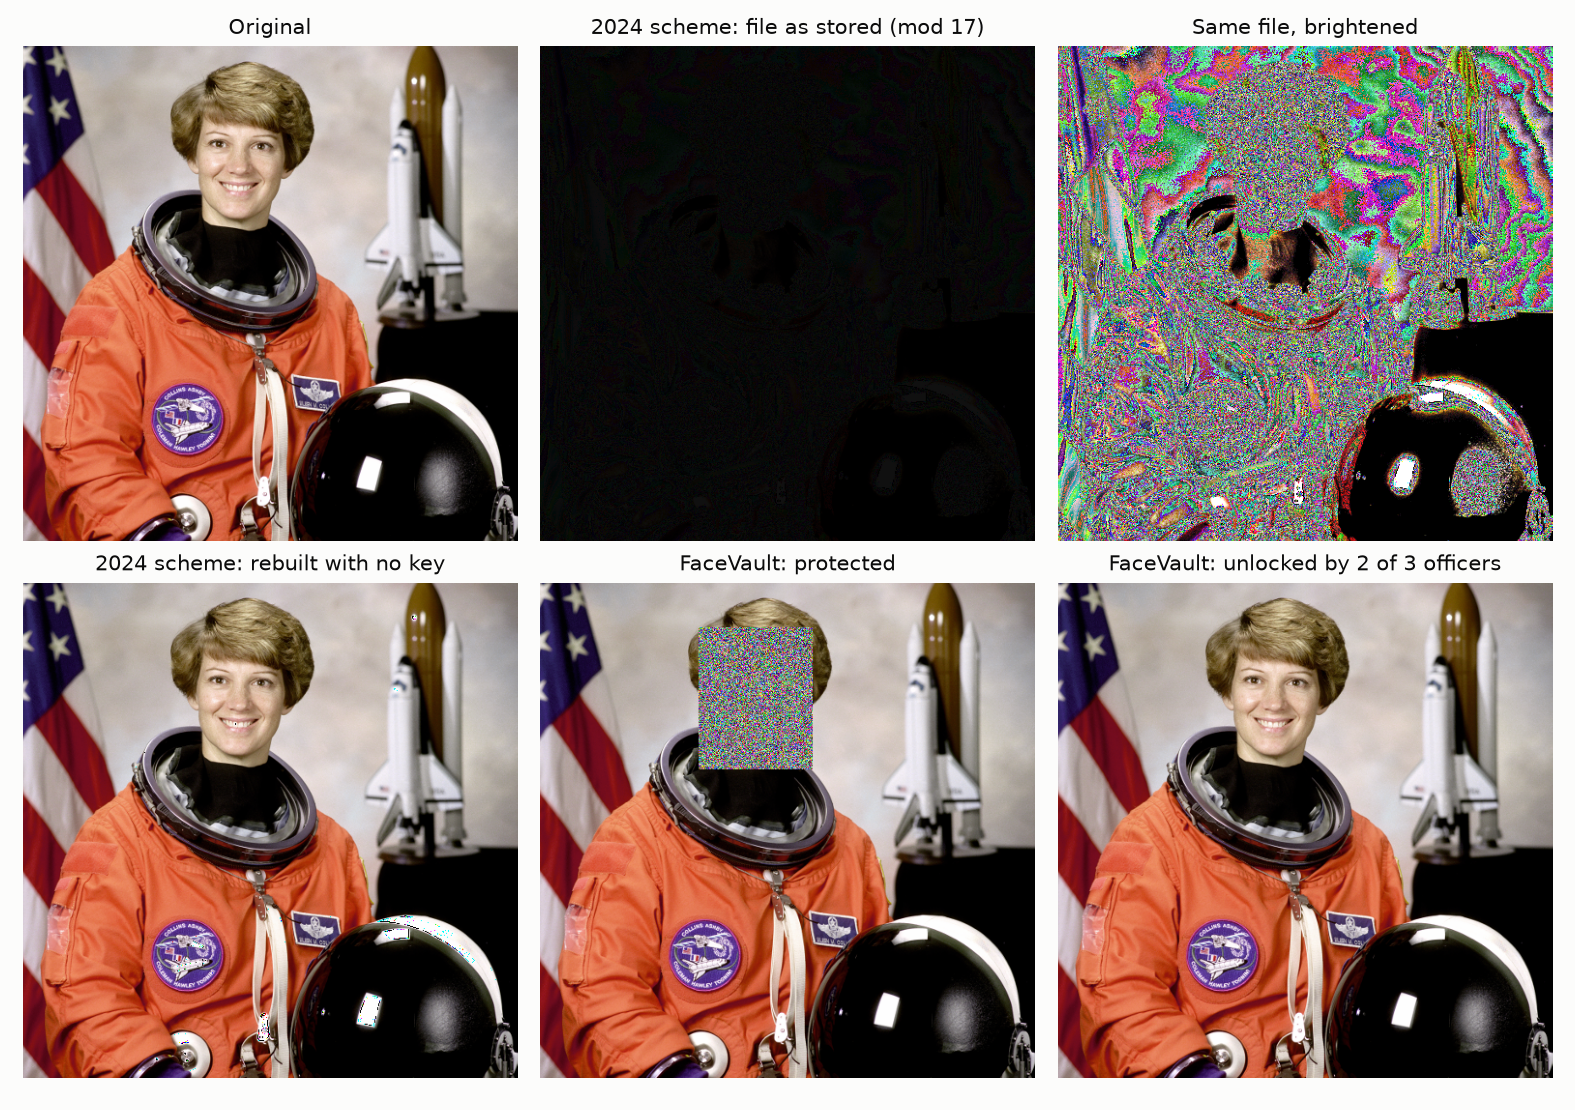
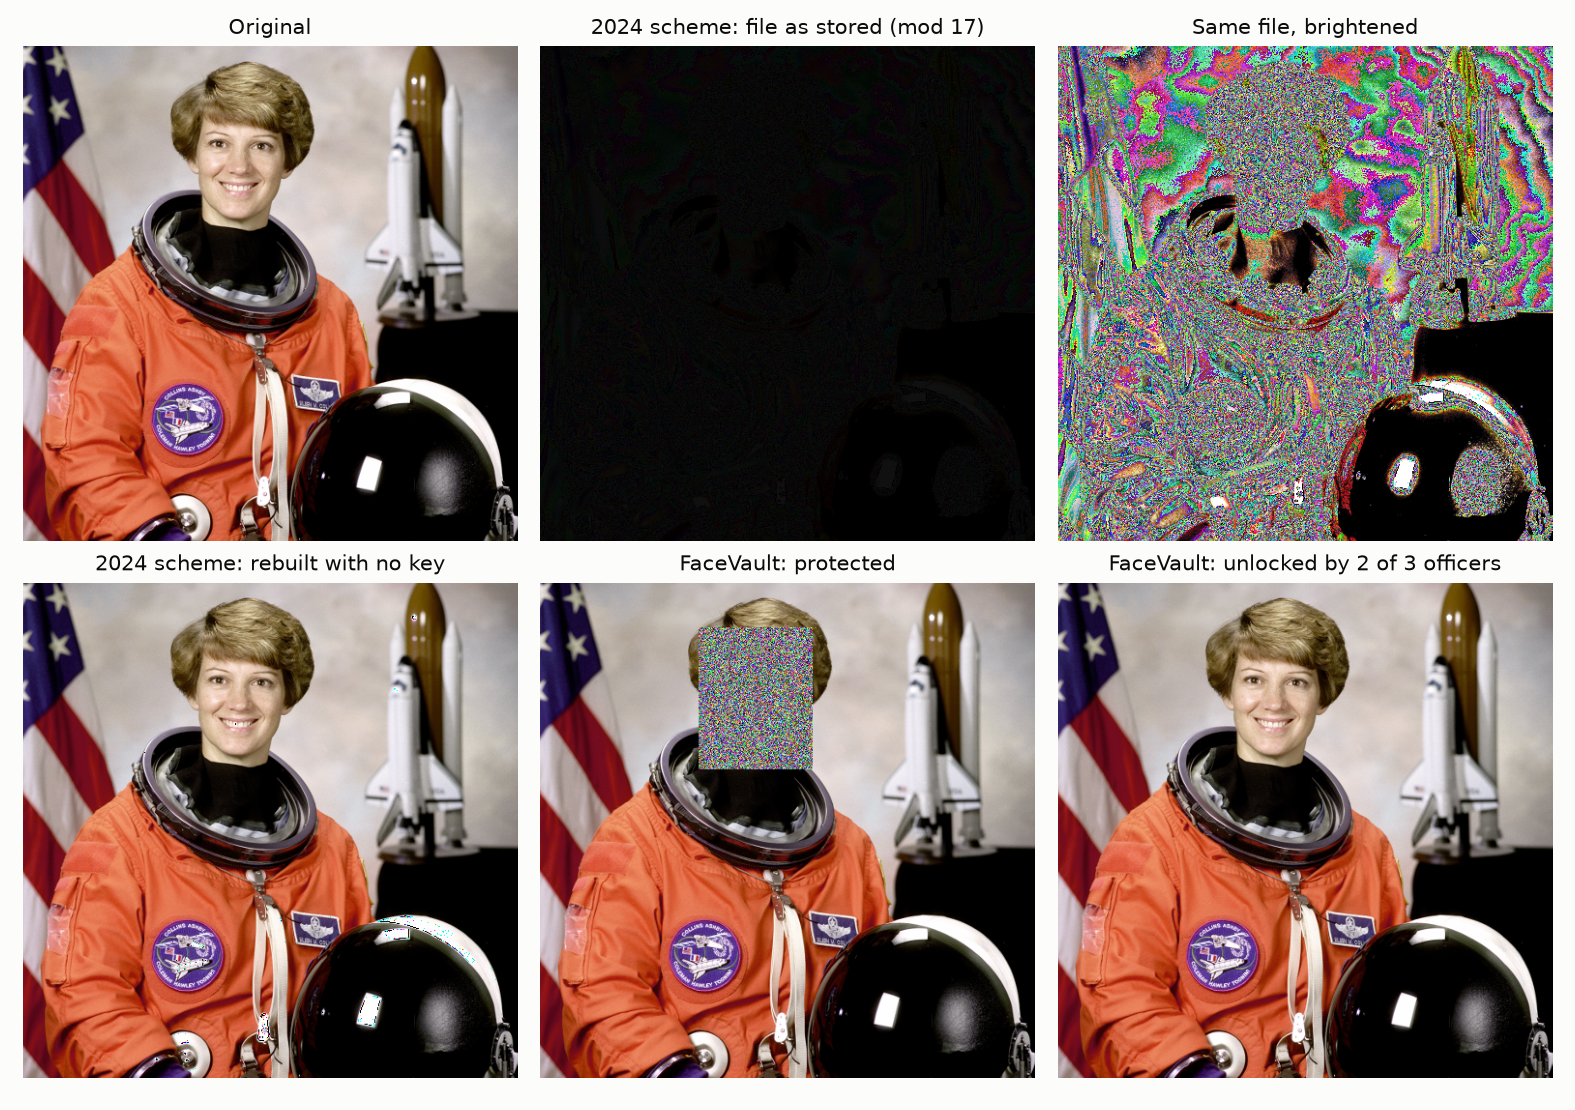
Compare FaceVault with blur, pixelation and a black box
New experiment step (run_all.py --only obfuscation): the same face
regions are hidden by each method and a recogniser is given a different
photo of the same person, with a wrong-person control for chance.
Light blur leaves 92.6% of faces recognisable and heavy blur 11.2%;
FaceVault leaves 0.0% and is the only method that can restore the face.
Adds facevault/obfuscate.py, the results table and figure, tests, and
a --only option to rerun selected steps.

Changed region(s): [[0.4356, 0.5514, 0.5289, 0.7045]]

diff --git a/experiments/run_all.py b/experiments/run_all.py
@@ -25,7 +25,7 @@ from cryptography.hazmat.primitives.ciphers.aead import AESGCM
 ROOT = Path(__file__).resolve().parent.parent
 sys.path.insert(0, str(ROOT))
 
-from facevault import attacks, detect, hybrid, legacy_rns, metrics, sharing, vault  # noqa: E402
+from facevault import attacks, detect, hybrid, legacy_rns, metrics, obfuscate, sharing, vault  # noqa: E402
 
 LFW_DIR = ROOT / "data" / "lfw_home" / "lfw_funneled"
 RESULTS = ROOT / "results"
@@ -270,6 +270,97 @@ def run_lock_threshold(paths, observer):
     return rows
 
 
+# --- 2c. blur, pixelation and a black box against FaceVault -----------------
+
+def obfuscation_methods(public):
+    """(label, function(image, boxes) -> image, can the original be recovered?)"""
+    return [
+        ("No protection", lambda image, boxes: image, None),
+        ("Gaussian blur, 15 px", lambda image, boxes: obfuscate.blur(image, boxes, 15), False),
+        ("Gaussian blur, 45 px", lambda image, boxes: obfuscate.blur(image, boxes, 45), False),
+        ("Pixelation, 8 px blocks", lambda image, boxes: obfuscate.pixelate(image, boxes, 8), False),
+        ("Pixelation, 16 px blocks", lambda image, boxes: obfuscate.pixelate(image, boxes, 16), False),
+        ("Black box", obfuscate.black_box, False),
+        ("FaceVault", lambda image, boxes: vault.protect(image, boxes, public, margin=0)[0], True),
+    ]
+
+
+def photo_pairs(all_paths, people, seed):
+    """(photo A, photo B) of the same person, for `people` randomly chosen people."""
+    by_person = {}
+    for path in all_paths:
+        by_person.setdefault(path.parent.name, []).append(path)
+    names = sorted(name for name, items in by_person.items() if len(items) >= 2)
+    rng = np.random.default_rng(seed)
+    chosen = sorted(rng.choice(len(names), size=min(people, len(names)), replace=False))
+    return [(by_person[names[i]][0], by_person[names[i]][1]) for i in chosen]
+
+
+def run_obfuscation(paths, pairs, detector, observer, matcher):
+    """Hide the same face regions with each method; ask a detector and a recogniser what is left."""
+    _, public = hybrid.generate_keypair()
+    methods = obfuscation_methods(public)
+
+    def hidden_versions(rgb, faces):
+        boxes = vault.prepare_boxes([face.box for face in faces], rgb.shape)
+        return boxes, [hide(rgb, boxes) for _, hide, _ in methods]
+
+    # Part 1: the attacker holds the very same photo, unprotected.
+    detected = [0] * len(methods)
+    same_photo = [[] for _ in methods]
+    used = 0
+    for path in paths:
+        rgb = vault.load_image(path)
+        faces = detector.detect(rgb)
+        if not faces:
+            continue
+        used += 1
+        original = matcher.embed(rgb, faces[0])
+        boxes, versions = hidden_versions(rgb, faces)
+        for index, hidden in enumerate(versions):
+            detected[index] += any(bx <= x + w / 2 <= bx + bw and by <= y + h / 2 <= by + bh
+                                   for x, y, w, h in (found.box for found in observer.detect(hidden))
+                                   for bx, by, bw, bh in boxes)
+            # The recogniser is told exactly where the face is: the strongest case for an attacker.
+            same_photo[index].append(matcher.similarity(original, matcher.embed(hidden, faces[0])))
+
+    # Part 2: the attacker holds a different photo of the same person, as a watch-list would.
+    # Matching the hidden face against a WRONG person shows what chance alone produces.
+    enrolled, probes = [], []
+    for enrolled_path, probe_path in pairs:
+        enrolled_rgb, probe_rgb = vault.load_image(enrolled_path), vault.load_image(probe_path)
+        enrolled_faces, probe_faces = detector.detect(enrolled_rgb), detector.detect(probe_rgb)
+        if enrolled_faces and probe_faces:
+            enrolled.append(matcher.embed(enrolled_rgb, enrolled_faces[0]))
+            probes.append((probe_rgb, probe_faces))
+    people = len(probes)
+    other_photo = [[] for _ in methods]
+    wrong_person = [[] for _ in methods]
+    for person, (probe_rgb, probe_faces) in enumerate(probes):
+        _, versions = hidden_versions(probe_rgb, probe_faces)
+        for index, hidden in enumerate(versions):
+            feature = matcher.embed(hidden, probe_faces[0])
+            other_photo[index].append(matcher.similarity(enrolled[person], feature))
+            wrong_person[index].append(matcher.similarity(enrolled[(person + 1) % people], feature))
+
+    def matched(scores):
+        return 100.0 * float(np.mean(np.array(scores) >= detect.MATCH_THRESHOLD))
+
+    return [{
+        "method": label,
+        "images": used,
+        "people": people,
+        "face_detected_in_hidden_region_pct": 100.0 * detected[index] / used,
+        "matched_to_same_photo_pct": matched(same_photo[index]),
+        "matched_to_other_photo_pct": matched(other_photo[index]),
+        "matched_to_wrong_person_pct": matched(wrong_person[index]),
+        "similarity_to_same_photo_mean": mean(same_photo[index]),
+        "similarity_to_other_photo_mean": mean(other_photo[index]),
+        "similarity_to_wrong_person_mean": mean(wrong_person[index]),
+        "original_recoverable": recoverable,
+    } for index, (label, _, recoverable) in enumerate(methods)]
+
+
 # --- 3. watch-list matching --------------------------------------------------
 
 def run_watchlist(all_paths, detector, matcher, people, rng):
@@ -406,6 +497,30 @@ def make_figures(results, detector):
     figure.savefig(FIGURES / "comparison.png", dpi=150)
     plt.close(figure)
 
+    # The same face hidden six ways.
+    face_box = vault.prepare_boxes([face.box for face in detector.detect(rgb)], rgb.shape)
+    x, y, w, h = face_box[0]
+    pad = 40
+    window = (slice(max(y - pad, 0), y + h + pad), slice(max(x - pad, 0), x + w + pad))
+    rows = {row["method"]: row for row in results["obfuscation"]}
+    panels = [(label, hide(rgb, face_box), rows[label]) for label, hide, _ in obfuscation_methods(public)]
+    figure, axes = plt.subplots(1, len(panels), figsize=(13.5, 3.1))
+    for axis, (label, picture, row) in zip(axes, panels):
+        axis.imshow(picture[window])
+        axis.set_title(label, fontsize=9.5)
+        axis.set_xticks([])
+        axis.set_yticks([])
+        for side in axis.spines.values():
+            side.set_visible(False)
+        if row is not None:
+            caption = [f"recognised: {row['matched_to_other_photo_pct']:.1f}%"]
+            if row["original_recoverable"] is not None:
+                caption.append(f"recoverable: {'yes' if row['original_recoverable'] else 'no'}")
+            axis.set_xlabel(chr(10).join(caption), fontsize=9, color=INK)
+    figure.tight_layout()
+    figure.savefig(FIGURES / "obfuscation.png", dpi=150)
+    plt.close(figure)
+
     # Was a face still found? One bar per kind of image.
     found = results["legacy"]["face_detected_pct"]
     bars = [
@@ -503,6 +618,22 @@ def write_tables(results):
         *[f"| {row['lock_threshold']} | {row['images_with_face_still_found']} of {results['meta']['images']} ({row['images_with_face_still_found_pct']:.1f}%) | "
           f"{row['images_with_detection_inside_a_locked_region']} | {row['regions_locked_per_image_mean']:.2f} | {row['area_locked_pct_mean']:.1f}% |" for row in results["lock_threshold"]],
         "",
+        "## Table 2c. Blur, pixelation and a black box against FaceVault",
+        "",
+        "The same face regions hidden by each method. The recogniser (SFace) is told exactly where the face is",
+        f"and counts a match at similarity {detect.MATCH_THRESHOLD} or above. 'Same photo': the attacker holds the unprotected",
+        f"copy of that photo ({results['obfuscation'][0]['images']} images). 'Another photo': the attacker holds a different photo of the",
+        f"same person, as a watch-list would ({results['obfuscation'][0]['people']} people). 'Wrong person': the hidden face compared with",
+        "someone else's photo, which shows what chance alone produces.",
+        "",
+        "| Method | Face detected in the hidden region | Recognised against the same photo | Recognised against another photo (mean similarity) | Matched to a wrong person (mean similarity) | Original recoverable |",
+        "|---|---|---|---|---|---|",
+        *[f"| {row['method']} | {row['face_detected_in_hidden_region_pct']:.1f}% | {row['matched_to_same_photo_pct']:.1f}% | "
+          f"{row['matched_to_other_photo_pct']:.1f}% ({row['similarity_to_other_photo_mean']:.3f}) | "
+          f"{row['matched_to_wrong_person_pct']:.1f}% ({row['similarity_to_wrong_person_mean']:.3f}) | "
+          f"{'not needed' if row['original_recoverable'] is None else 'yes, bit for bit' if row['original_recoverable'] else 'no'} |"
+          for row in results["obfuscation"]],
+        "",
         "## Table 3. Statistics of the stored data",
         "",
         "| Data | Entropy (bits/byte) | Adjacent-pixel correlation |",
@@ -572,6 +703,7 @@ def main():
     parser.add_argument("--images", type=int, default=1000)
     parser.add_argument("--people", type=int, default=500, help="identities in the watch-list test")
     parser.add_argument("--seed", type=int, default=2026)
+    parser.add_argument("--only", help="comma-separated steps to rerun, keeping the other saved results (e.g. obfuscation)")
     args = parser.parse_args()
 
     rng = np.random.default_rng(args.seed)
@@ -588,14 +720,22 @@ def main():
         "dataset": "LFW (funneled), random sample",
         "machine": f"{platform.processor() or platform.machine()}, Python {platform.python_version()}, OpenCV {cv2.__version__}, CPU only",
     }}
-    for name, step in (
-        ("legacy", lambda: run_legacy(paths, observer)),
-        ("facevault", lambda: run_facevault(paths, detector, observer, matcher, rng)),
-        ("lock_threshold", lambda: run_lock_threshold(paths, observer)),
-        ("watchlist", lambda: run_watchlist(all_paths, detector, matcher, args.people, rng)),
-        ("speed", lambda: run_speed(detector)),
-        ("sharing", run_sharing),
-    ):
+    steps = {
+        "legacy": lambda: run_legacy(paths, observer),
+        "facevault": lambda: run_facevault(paths, detector, observer, matcher, rng),
+        "lock_threshold": lambda: run_lock_threshold(paths, observer),
+        "obfuscation": lambda: run_obfuscation(paths, photo_pairs(all_paths, args.people, args.seed), detector, observer, matcher),
+        "watchlist": lambda: run_watchlist(all_paths, detector, matcher, args.people, rng),
+        "speed": lambda: run_speed(detector),
+        "sharing": run_sharing,
+    }
+    if args.only:
+        saved = json.loads((RESULTS / "results.json").read_text(encoding="utf-8"))
+        if (saved["meta"]["images"], saved["meta"]["seed"]) != (len(paths), args.seed):
+            sys.exit("--only needs the same --images and --seed as the saved results")
+        results = saved
+        steps = {name: steps[name] for name in args.only.split(",")}
+    for name, step in steps.items():
         start = time.perf_counter()
         results[name] = step()
         print(f"{name}: done in {time.perf_counter() - start:.0f} s", flush=True)

diff --git a/tests/test_core.py b/tests/test_core.py
@@ -6,7 +6,7 @@ import json
 import numpy as np
 import pytest
 
-from facevault import alerts, attacks, hybrid, legacy_rns, metrics, pipeline, sharing, vault
+from facevault import alerts, attacks, hybrid, legacy_rns, metrics, obfuscate, pipeline, sharing, vault
 from facevault.audit import AuditLog
 
 
@@ -133,6 +133,28 @@ def test_ciphertext_looks_random(keypair):
     protected, _ = vault.protect(flat, [(0, 0, 200, 200)], public, margin=0)
     assert metrics.entropy(protected) > 7.99
     assert abs(metrics.adjacent_correlation(protected[:, :, 0])) < 0.05
+
+
+# --- baselines: blur, pixelation, black box ----------------------------------
+
+@pytest.mark.parametrize("hide", [
+    lambda image, boxes: obfuscate.blur(image, boxes, 15),
+    lambda image, boxes: obfuscate.pixelate(image, boxes, 8),
+    obfuscate.black_box,
+])
+def test_baselines_change_only_the_boxes(image, hide):
+    hidden = hide(image, BOXES)
+    mask = np.zeros(image.shape[:2], dtype=bool)
+    for x, y, w, h in BOXES:
+        mask[y:y + h, x:x + w] = True
+        assert not np.array_equal(hidden[y:y + h, x:x + w], image[y:y + h, x:x + w])
+    assert np.array_equal(hidden[~mask], image[~mask])
+
+
+def test_pixelation_makes_flat_blocks(image):
+    x, y, w, h = 32, 24, 48, 40
+    region = obfuscate.pixelate(image, [(x, y, w, h)], 8)[y:y + h, x:x + w]
+    assert np.all(region[:8, :8] == region[0, 0])
 
 
 # --- threshold key sharing --------------------------------------------------

diff --git a/facevault/obfuscate.py b/facevault/obfuscate.py
@@ -1,0 +1,31 @@
+"""The usual ways of hiding a face: blur, pixelation, a black box.
+
+They are here as baselines to measure FaceVault against. None of them can be
+undone, so the original face is lost even to someone who is entitled to see it.
+"""
+
+import cv2
+
+
+def blur(image, boxes, kernel):
+    """Gaussian-blur each (x, y, w, h) box. `kernel` is the blur width in pixels (odd)."""
+    out = image.copy()
+    for x, y, w, h in boxes:
+        out[y:y + h, x:x + w] = cv2.GaussianBlur(image[y:y + h, x:x + w], (kernel, kernel), 0)
+    return out
+
+
+def pixelate(image, boxes, block):
+    """Replace each box with square blocks of `block` pixels, each one flat colour."""
+    out = image.copy()
+    for x, y, w, h in boxes:
+        small = cv2.resize(image[y:y + h, x:x + w], (max(w // block, 1), max(h // block, 1)), interpolation=cv2.INTER_AREA)
+        out[y:y + h, x:x + w] = cv2.resize(small, (w, h), interpolation=cv2.INTER_NEAREST)
+    return out
+
+
+def black_box(image, boxes):
+    out = image.copy()
+    for x, y, w, h in boxes:
+        out[y:y + h, x:x + w] = 0
+    return out

diff --git a/README.md b/README.md
@@ -89,6 +89,33 @@ tables are in [results/tables.md](results/tables.md).
 
 ![Byte histograms of a face region: original, 2024 scheme, FaceVault](results/figures/histograms.png)
 
+**Against blur and pixelation**
+
+Blurring or pixelating faces is what most systems do. The same face regions
+were hidden by each method, and a face recogniser was then given a *different*
+photo of the same person, as a watch-list would be (500 people).
+
+![The same face hidden by blur, pixelation, a black box and FaceVault](results/figures/obfuscation.png)
+
+| Method | Still recognised | Matched to a wrong person (chance) | Original recoverable |
+|---|---|---|---|
+| No protection | 95.8% | 0.0% | |
+| Gaussian blur, 15 px | 92.6% | 0.2% | no |
+| Gaussian blur, 45 px | 11.2% | 0.0% | no |
+| Pixelation, 8 px blocks | 2.4% | 0.0% | no |
+| Pixelation, 16 px blocks | 0.0% | 0.2% | no |
+| Black box | 0.0% | 0.0% | no |
+| FaceVault | 0.0% | 0.0% | yes, bit for bit |
+
+Light blur hides almost nothing from a machine, and heavy blur still lets it
+recognise one face in nine. The methods that do hide the face destroy it.
+FaceVault is the only row that hides the face and can give it back. Its
+protected faces are no more similar to the right person (mean similarity
+0.027) than to a wrong one (0.026).
+
+The recogniser here is an ordinary one that was never trained on blurred
+faces, so these figures are a lower limit on what blur and pixelation leak.
+
 Things the numbers also say, which matter as much as the good ones:
 
 - **One residue file alone does not show a face.** A detector found no face in
@@ -171,6 +198,7 @@ facevault/
   legacy_rns.py   the 2024 scheme, kept as a baseline
   attacks.py      attacks on the 2024 scheme
   metrics.py      entropy, correlation, NPCR, UACI, MSE, PSNR
+  obfuscate.py    blur, pixelation and black box, as baselines
 app.py            Streamlit demo
 experiments/      the script behind every number in this README
 tests/            pytest suite

diff --git a/results/tables.md b/results/tables.md
@@ -44,6 +44,24 @@ Counts move by a few images between runs because the ciphertext noise is random.
 | 0.4 | 0 of 1000 (0.0%) | 0 | 1.11 | 37.8% |
 | 0.3 | 0 of 1000 (0.0%) | 0 | 1.14 | 38.2% |
 
+## Table 2c. Blur, pixelation and a black box against FaceVault
+
+The same face regions hidden by each method. The recogniser (SFace) is told exactly where the face is
+and counts a match at similarity 0.363 or above. 'Same photo': the attacker holds the unprotected
+copy of that photo (1000 images). 'Another photo': the attacker holds a different photo of the
+same person, as a watch-list would (500 people). 'Wrong person': the hidden face compared with
+someone else's photo, which shows what chance alone produces.
+
+| Method | Face detected in the hidden region | Recognised against the same photo | Recognised against another photo (mean similarity) | Matched to a wrong person (mean similarity) | Original recoverable |
+|---|---|---|---|---|---|
+| No protection | 100.0% | 100.0% | 95.8% (0.649) | 0.0% (0.085) | not needed |
+| Gaussian blur, 15 px | 100.0% | 99.9% | 92.6% (0.568) | 0.2% (0.067) | no |
+| Gaussian blur, 45 px | 96.2% | 33.9% | 11.2% (0.221) | 0.0% (0.022) | no |
+| Pixelation, 8 px blocks | 56.0% | 9.2% | 2.4% (0.161) | 0.0% (0.085) | no |
+| Pixelation, 16 px blocks | 0.0% | 0.5% | 0.0% (0.099) | 0.2% (0.092) | no |
+| Black box | 0.0% | 0.0% | 0.0% (-0.044) | 0.0% (-0.045) | no |
+| FaceVault | 0.0% | 0.0% | 0.0% (0.027) | 0.0% (0.026) | yes, bit for bit |
+
 ## Table 3. Statistics of the stored data
 
 | Data | Entropy (bits/byte) | Adjacent-pixel correlation |
